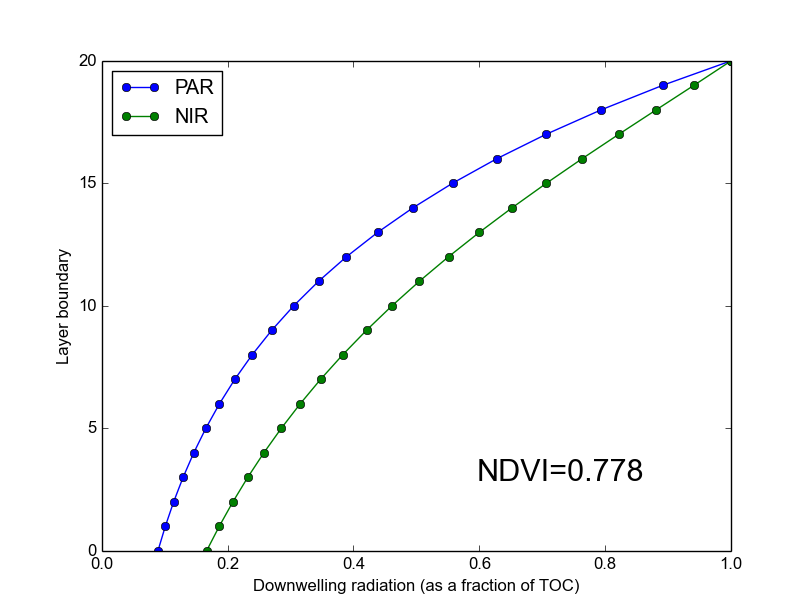
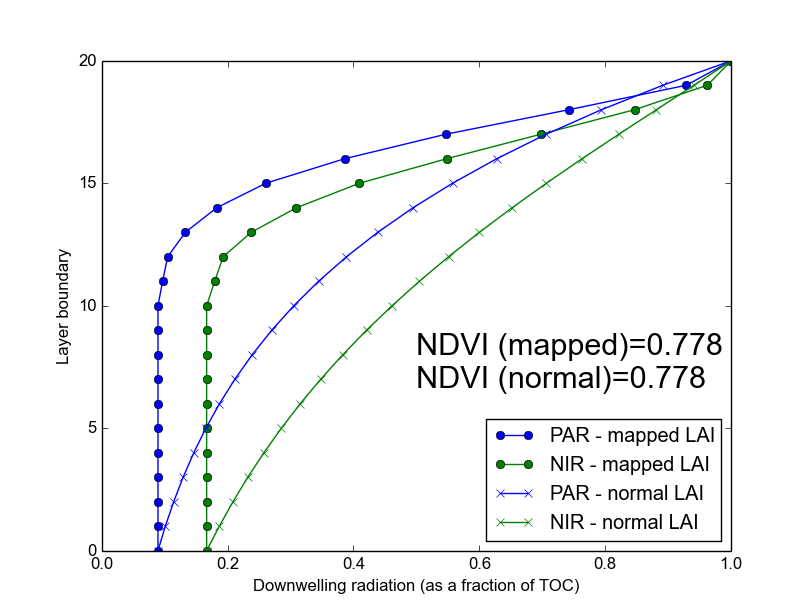
arbitrary vertical profiles of LAI

diff --git a/sellersTwoStream.py b/sellersTwoStream.py
@@ -82,11 +82,20 @@ class twoStream(leafGeometry,canopyStructure):
     #set up model parameters
     self.mu=1.0
     self.propDif=0.0
-    self.lai=5.0
     self.leaf_r=0.3
     self.leaf_t=0.2
     self.soil_r=0.1
+
+    self.lai=5.0
     self.nLayers=20
+    self.userLayerLAIMap=False
+    #intialise the layerMap here just 
+    #incase a user sets the flag to 
+    #True but forgets to provide a map
+    laiPerLayer=self.lai/self.nLayers
+    self.layerLAIMap=np.ones(self.nLayers)*laiPerLayer
+
+    
     
     self.setupJULES()
 
@@ -424,18 +433,33 @@ class twoStream(leafGeometry,canopyStructure):
     h9=(u2+muB*h)/(d2*s1)
     h10=-s1*(u2-muB*h)/d2
  
+        
+    #if not using a user generated lai map
+    #generate one here. We do it at this point
+    #so as to catch any changes to
+    if self.userLayerLAIMap==False:
+      laiPerLayer=self.lai/self.nLayers
+      self.layerLAIMap=np.ones(self.nLayers)*laiPerLayer
+    
+    #add a zero layer in (the top of the canopy)
+    #also make this a "local scope variable so this
+    #doesn't interfere with consecutive calls by adding in
+    #multiple zeros
+    layerLAIMapPrivate=np.hstack([0.0,self.layerLAIMap])
+
     #some arrays to hold output
-    Iup=np.zeros(self.nLayers+1)
-    Idn=np.zeros(self.nLayers+1)
-    Iab=np.zeros(self.nLayers+1)
-    Iab_dLai=np.zeros(self.nLayers+1)
-   
+    Iup=np.zeros(len(layerLAIMapPrivate))
+    Idn=np.zeros(len(layerLAIMapPrivate))
+    Iab=np.zeros(len(layerLAIMapPrivate))
+    Iab_dLai=np.zeros(len(layerLAIMapPrivate))
+
     #calculate fluxes at the top and bottom 
     #of each layer
-    laiPerLayer=self.lai/self.nLayers
-    for i in xrange(self.nLayers+1):
-  
-      laiSum=laiPerLayer*i
+    laiSum=0 
+    for i in xrange(len(layerLAIMapPrivate)):
+      
+      #keep track of total lai 
+      laiSum=laiSum+layerLAIMapPrivate[i]
   
       #fluxes due to collimated irradiance
       Iup_dir=h1*np.exp(-K*laiSum)/sigma + h2*np.exp(-h*laiSum) + h3*np.exp(h*laiSum)
@@ -470,14 +494,14 @@ class twoStream(leafGeometry,canopyStructure):
       #This is how fAPAR is calculated in JULES.
       
       if i>0:
-        lai=laiSum-laiPerLayer*.5
+        lai=laiSum-layerLAIMapPrivate[i]*.5
         dIup_dir_dLai=-K*h1/sigma*np.exp(-K*lai)-h*h2*np.exp(-h*lai)+h*h3*np.exp(h*lai)
         dIdn_dir_dLai=-K*(h4/sigma+1.)*np.exp(-K*lai)-h*h5*np.exp(-h*lai)+h*h6*np.exp(h*lai)
         dIup_dif_dLai=-h*h7*np.exp(-h*lai)+h*h8*np.exp(h*lai)
         dIdn_dif_dLai=-h*h9*np.exp(-h*lai)+h*h10*np.exp(h*lai)
              
-        Iab_dir_dLai=(dIup_dir_dLai-dIdn_dir_dLai)*laiPerLayer
-        Iab_dif_dLai=(dIup_dif_dLai-dIdn_dif_dLai)*laiPerLayer
+        Iab_dir_dLai=(dIup_dir_dLai-dIdn_dir_dLai)*layerLAIMapPrivate[i]
+        Iab_dif_dLai=(dIup_dif_dLai-dIdn_dif_dLai)*layerLAIMapPrivate[i]
 
       else:
         Iab_dir_dLai=0.0

diff --git a/examples/verticalProfile_and_NDVI_example.py b/examples/verticalProfile_and_NDVI_example.py
@@ -12,7 +12,10 @@ t.mu=1.0
 #proportion of diffuse radiation
 t.propDif=0.0
 #leaf area index
-t.lai=5.0
+t.lai=5.
+t.userLayerLAIMap=True
+t.layerLAIMap=np.array([0.1,0.3,0.4,0.45,0.5,0.45,0.4,0.3,0.1,0.1,0.0,0.0,0.0,0.0,0.0,0.0,0.0,0.0,0.0,0.0])
+t.layerLAIMap=t.layerLAIMap*t.lai/t.layerLAIMap.sum()
 #leaf reflectance & tranmisttance
 #these values are for JULES PFT=1 
 #and PAR waveband:
@@ -33,7 +36,18 @@ t.leaf_r=0.45 #=alnir
 t.leaf_t=0.25 #=omnir-alnir
 
 #do the radiative transfer calculation:
-IupNIR, IdnNIR, IabNIR, Iab_dLaiNR = t.getFluxes()
+IupNIR, IdnNIR, IabNIR, Iab_dLaiNIR = t.getFluxes()
+
+#now repeat using even LAI 
+#(e.g. as would normally be the case in JULES)
+t.userLayerLAIMap=False
+t.leaf_r=0.10 
+t.leaf_t=0.05 
+IupPARx, IdnPARx, IabPARx, Iab_dLaiPARx = t.getFluxes()
+t.leaf_r=0.45 
+t.leaf_t=0.25 
+IupNIRx, IdnNIRx, IabNIRx, Iab_dLaiNIRx = t.getFluxes()
+
 
 #to calculate NDVI use the PAR and NIR albedos
 #i.e. the upward flux proportion at the top of 
@@ -41,11 +55,15 @@ IupNIR, IdnNIR, IabNIR, Iab_dLaiNR = t.getFluxes()
 #not least that this NDVI is calculated from
 #a broad band albedo
 NDVI=(IupNIR[0]-IupPAR[0])/(IupNIR[0]+IupPAR[0])
+NDVIx=(IupNIRx[0]-IupPARx[0])/(IupNIRx[0]+IupPARx[0])
 
 #make a nice plot:
-plt.plot(IdnPAR[::-1],np.arange(0,t.nLayers+1),'-o',label='PAR')
-plt.plot(IdnNIR[::-1],np.arange(0,t.nLayers+1),'-o',label='NIR')
-plt.text(0.6, t.nLayers/7., "NDVI=%0.3f"%NDVI, fontsize=22)
+plt.plot(IdnPAR[::-1],np.arange(0,len(t.layerLAIMap)+1),'-o',color="blue",label='PAR - mapped LAI')
+plt.plot(IdnNIR[::-1],np.arange(0,len(t.layerLAIMap)+1),'-o',color="green",label='NIR - mapped LAI')
+plt.plot(IdnPARx[::-1],np.arange(0,len(t.layerLAIMap)+1),'-x',color="blue",label='PAR - normal LAI')
+plt.plot(IdnNIRx[::-1],np.arange(0,len(t.layerLAIMap)+1),'-x',color="green",label='NIR - normal LAI')
+plt.text(0.5, t.nLayers/2.5, "NDVI (mapped)=%0.3f"%NDVI, fontsize=22)
+plt.text(0.5, t.nLayers/3., "NDVI (normal)=%0.3f"%NDVIx, fontsize=22)
 plt.xlim([0,1])
 plt.ylim([0,t.nLayers])
 plt.legend(loc=0)
